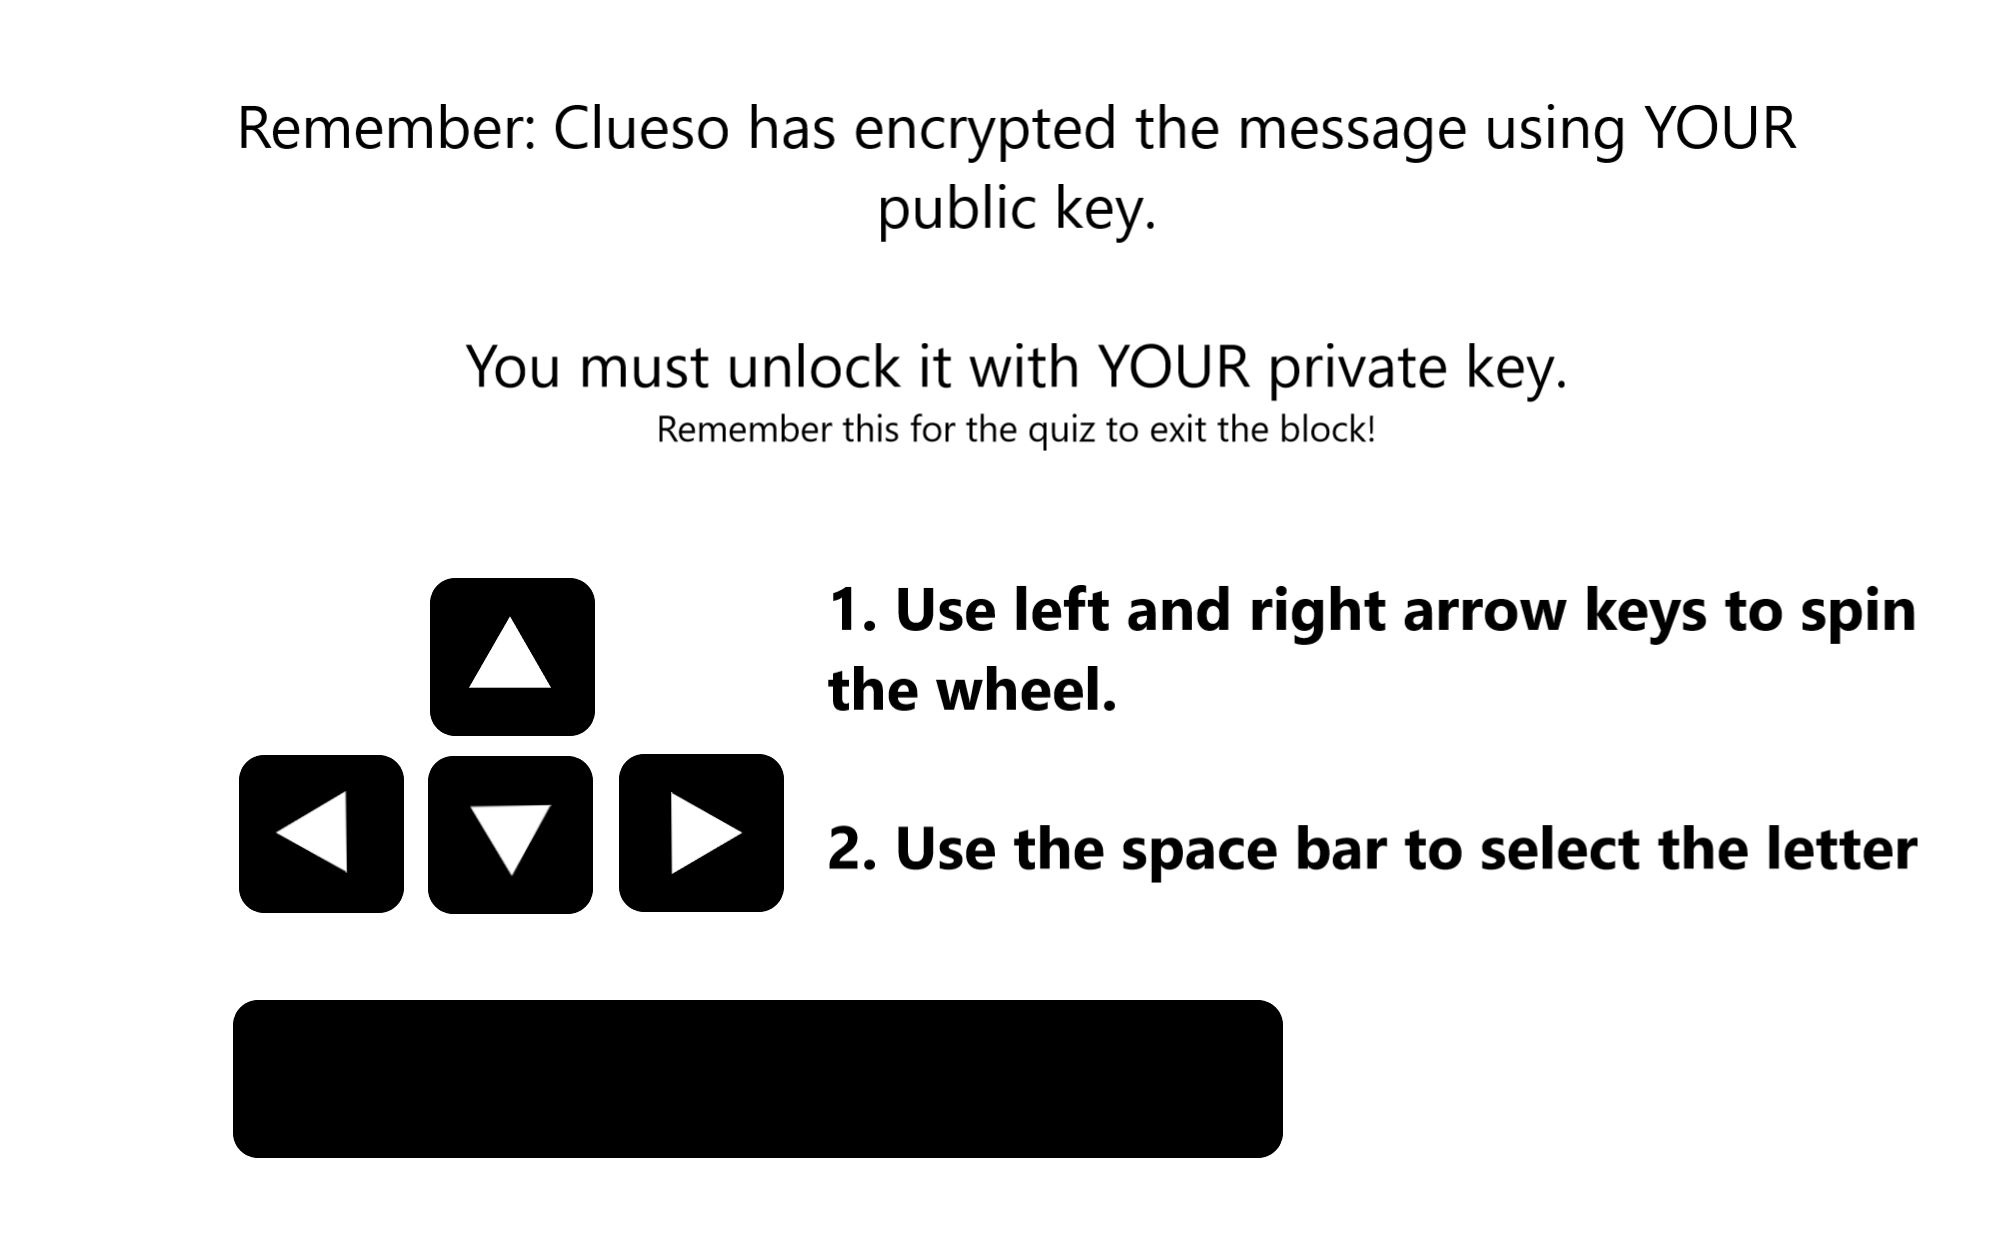
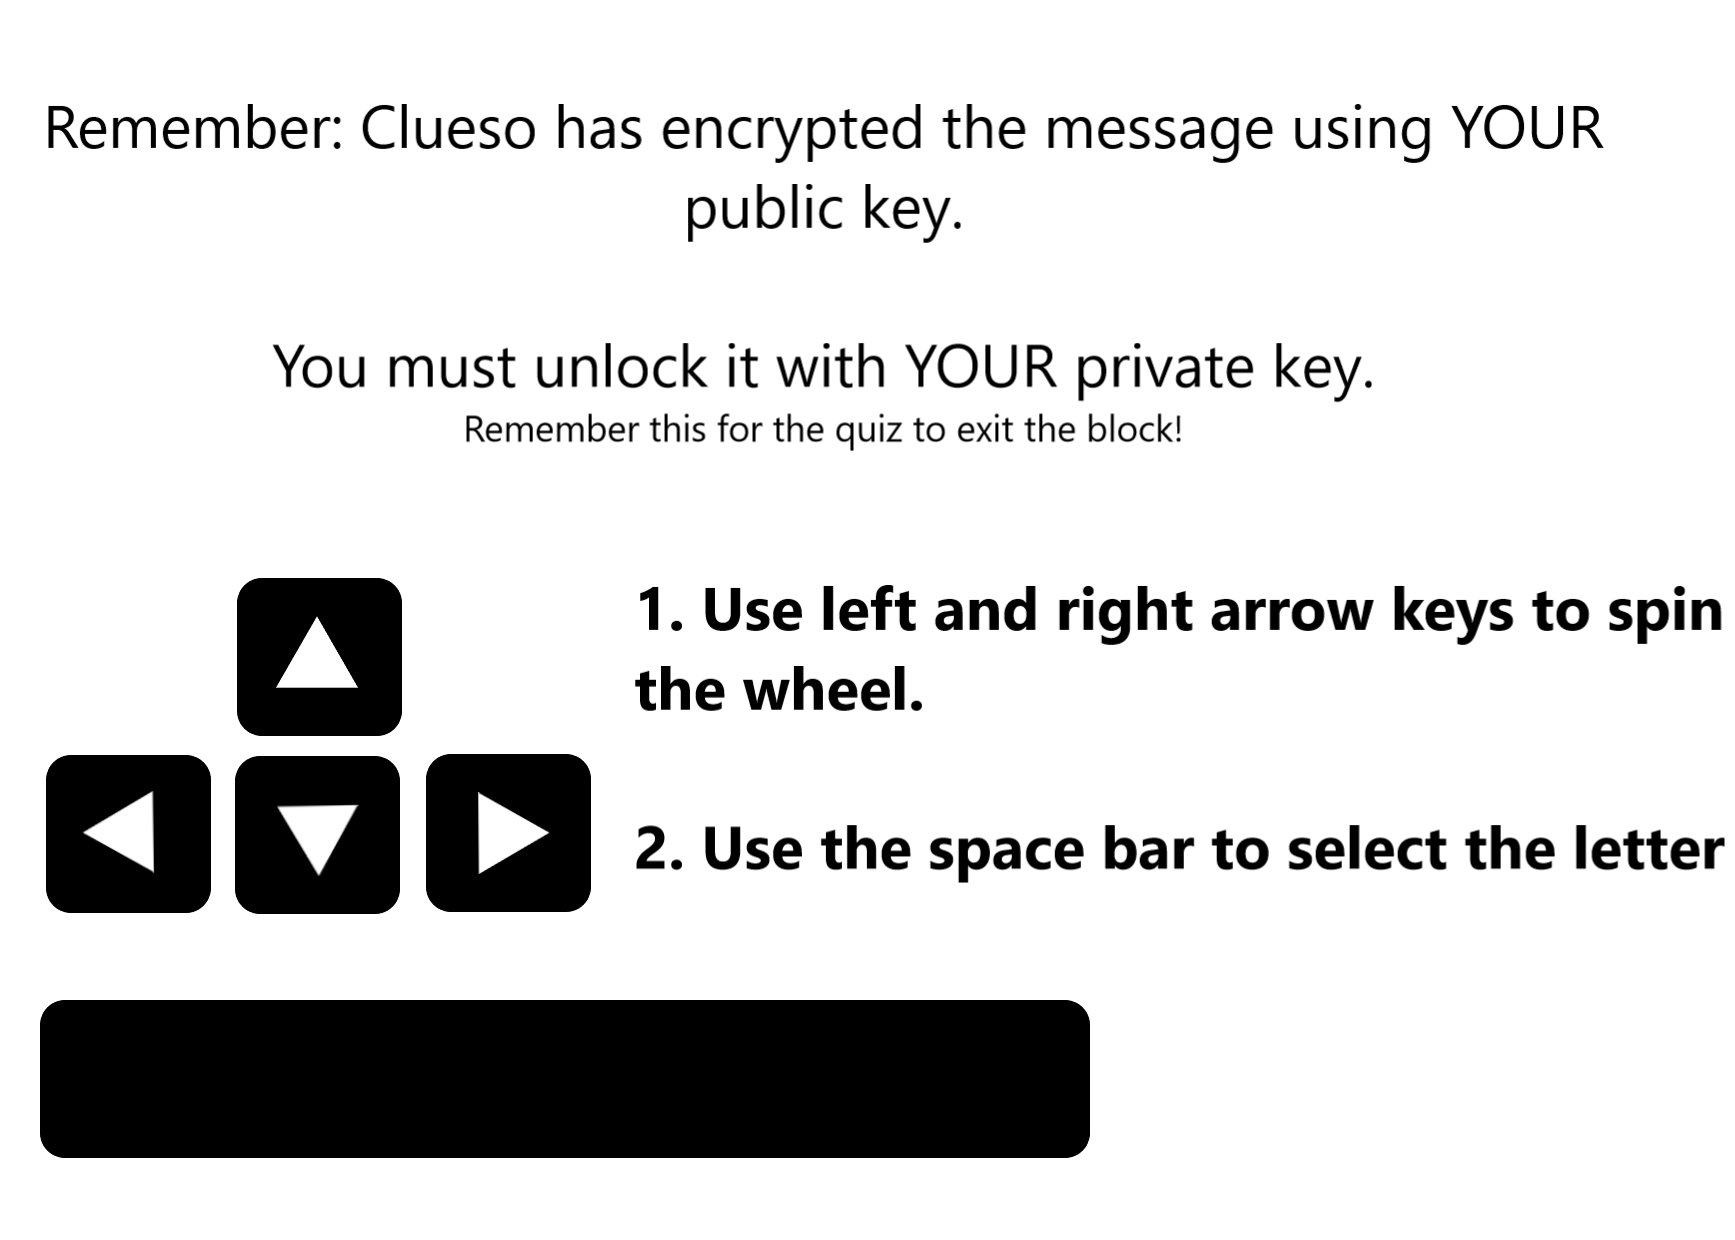
Animation complete ish
TODO: EXIT THE GAME WHEN COMPLETE (NEED HELP)
TODO: CLEAN UP
TODO: add timer / lives (if time)
:)

diff --git a/src/sample/KeyGameController.java b/src/sample/KeyGameController.java
@@ -41,6 +41,9 @@ public class KeyGameController implements Initializable {
     Group b;
 
     @FXML
+    Text escape;
+
+    @FXML
     private Circle myCircle;
 
     @FXML
@@ -56,9 +59,9 @@ public class KeyGameController implements Initializable {
     private Button pPrivateKey;
 
 
-
     boolean isDone = true;
 
+    BlockAnimation ba;
 
     @FXML
     private Button pPublicKey;
@@ -215,12 +218,14 @@ public class KeyGameController implements Initializable {
 
         root.addEventHandler(KeyEvent.KEY_PRESSED, e ->
         {
-            if (e.getCode()==KeyCode.ENTER ) {
+            if (e.getCode() == KeyCode.ENTER ) {
 
                 pressEnter.setVisible(false);
-                if (instructionString < messages.size() && isDone){
-                    textAnimation(messages.get(instructionString));
-                    instructionString++;
+                if (instructionString < messages.size()){
+                    if (ba.getStatus() && isDone) {
+                        textAnimation(messages.get(instructionString));
+                        instructionString++;
+                    }
                 }
                 else {
                     instructionPane.setVisible(false);
@@ -315,55 +320,55 @@ public class KeyGameController implements Initializable {
         switch (instructionString) {
 
             case 1: {
-                BlockAnimation bridgeAnimation = new BlockAnimation();
-                bridgeAnimation.start(b, bridge, 200, 10);
+                ba = new BlockAnimation();
+                ba.start(b, bridge, 200, 10);
                 break;
             }
             case 2: {
-                BlockAnimation messageAnimation2 = new BlockAnimation();
-                messageAnimation2.start(b, message, 200, 10);
+                ba = new BlockAnimation();
+                ba.start(b, message, 200, 10);
                 break;
             }
             case 3: {
-                BlockAnimation messageAnimation3 = new BlockAnimation();
-                messageAnimation3.start(b, message2, 300, 10);
+                ba = new BlockAnimation();
+                ba.start(b, message2, 600, 10);
                 break;
             }
             case 4: {
-                BlockAnimation messageAnimation4 = new BlockAnimation();
-                messageAnimation4.start(b, hello, 200, 10);
+                ba = new BlockAnimation();
+                ba.start(b, hello, 200, 10);
                 break;
             }
             case 5: {
-                BlockAnimation messageAnimation5 = new BlockAnimation();
-                messageAnimation5.start(b, spy, 200, 1);
+                ba = new BlockAnimation();
+                ba.start(b, spy, 200, 1);
                 break;
             }
             case 6: {
-                BlockAnimation messageAnimation6 = new BlockAnimation();
-                messageAnimation6.start(b, keypair, 1000, 500);
+                ba = new BlockAnimation();
+                ba.start(b, keypair, 1000, 500);
                 break;
             }
             case 7: {
-                BlockAnimation messageAnimation6 = new BlockAnimation();
-                messageAnimation6.start(b, pairlock, 400, 500);
+                ba = new BlockAnimation();
+                ba.start(b, pairlock, 400, 500);
                 break;
 
             }
             case 8: {
-                BlockAnimation messageAnimation7 = new BlockAnimation();
-                messageAnimation7.start(b, gen, 400, 200);
+                ba = new BlockAnimation();
+                ba.start(b, gen, 400, 200);
                 break;
 
             }
             case 9: {
-                BlockAnimation messageAnimation2 = new BlockAnimation();
-                messageAnimation2.start(b, unlock, 400, 200);
+                ba = new BlockAnimation();
+                ba.start(b, unlock, 400, 200);
                 break;
             }
             case 10: {
-                BlockAnimation messageAnimation2 = new BlockAnimation();
-                messageAnimation2.start(b, lock, 400, 200);
+                ba = new BlockAnimation();
+                ba.start(b, lock, 400, 200);
                 break;
             }
             case 11: {
@@ -373,10 +378,10 @@ public class KeyGameController implements Initializable {
             }
             case 12: {
                 ImageView i = new ImageView("graphics/minigameimages/animation/instructions.png");
-                i.setFitWidth(600);
+                i.setFitWidth(675);
                 i.setPreserveRatio(true);
                 b.getChildren().clear();
-                b.setTranslateX(-150);
+                b.setTranslateX(-100);
                 b.getChildren().add(i);
             }
 
@@ -397,7 +402,7 @@ public class KeyGameController implements Initializable {
         isDone = false;
 
         KeyFrame kf = new KeyFrame(
-                Duration.seconds(0.01), e -> {
+                Duration.seconds(0.04), e -> {
             if (count.get() > s.length()) {
                 animation();
                 timeline.stop();
@@ -419,6 +424,7 @@ public class KeyGameController implements Initializable {
         return false;
 
     }
+
 
 
 
@@ -477,16 +483,10 @@ public class KeyGameController implements Initializable {
         cPublicKey.setOnMouseReleased(buttonOnMouseReleasedEventHandler);
     }
 
-    class NextTask extends TimerTask {
-        public void run() {
-            verify();
-            timer.cancel();
-        }
-    }
 
     boolean checkBounds(int sceneX, int sceneY) {
 
-        int acceptionBound = 10;
+        int acceptionBound = 15;
 
 
         if ((sceneX > (int)signitureBounds.getLayoutX()-acceptionBound  &&
@@ -506,10 +506,7 @@ public class KeyGameController implements Initializable {
         if (source.equals(pPublicKey) && signiture.isVisible()) {
             insideButton = null;
             cPK.setStyle("-fx-background-color: green");
-
-            timer = new Timer();
-            timer.schedule(new NextTask(), 1000);
-
+            escape.setVisible(true);
 
         }
         else if (source.equals(pPublicKey) && signiture.isVisible()) {

diff --git a/src/sample/KeyGame.java b/src/sample/KeyGame.java
@@ -36,6 +36,7 @@ import static javafx.application.Application.launch;
 public class KeyGame extends Application {
     Scene s;
     AnchorPane root = new AnchorPane();
+    FXMLLoader loader = new FXMLLoader();
 
     KeyGame(){
         Rectangle sweeper = new Rectangle(115, 75, 0, 530);
@@ -44,8 +45,10 @@ public class KeyGame extends Application {
         sweep(sweeper).play();
     }
 
+    @FXML
     AnchorPane returnRoot() throws Exception{
-        root = FXMLLoader.load(getClass().getResource("sample.fxml"));
+
+        root = loader.load(getClass().getResource("sample.fxml"));
         return root;
     }
 
@@ -54,6 +57,8 @@ public class KeyGame extends Application {
         launch(args);
 
     }
+
+
 
     private Timeline sweep(Rectangle rectangle) {
         Timeline timeline = new Timeline();

diff --git a/src/sample/BlockAnimation.java b/src/sample/BlockAnimation.java
@@ -1,6 +1,7 @@
 package sample;
 
 
+import javafx.animation.Animation;
 import javafx.animation.KeyFrame;
 import javafx.animation.Timeline;
 import javafx.scene.Group;
@@ -9,8 +10,12 @@ import javafx.util.Duration;
 import java.util.ArrayList;
 
 public class BlockAnimation  {
+
+    Timeline tl;
     public void start(Group bridge, ArrayList<String> stillFrames, int gap, int start) {
-        Timeline tl = new Timeline();
+
+
+        tl =  new Timeline();
         tl.setCycleCount(1);
 
 
@@ -28,4 +33,15 @@ public class BlockAnimation  {
         }
         tl.play();
     }
+
+    boolean getStatus() {
+
+         if (tl.getStatus() == Animation.Status.RUNNING) {
+             return false;
+         }
+         else {
+             return true;
+         }
+    }
+
 }
